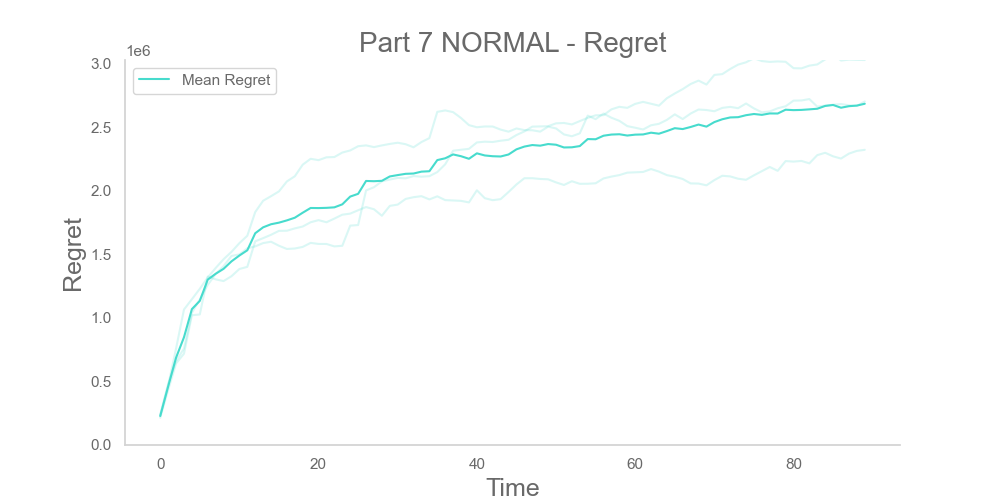
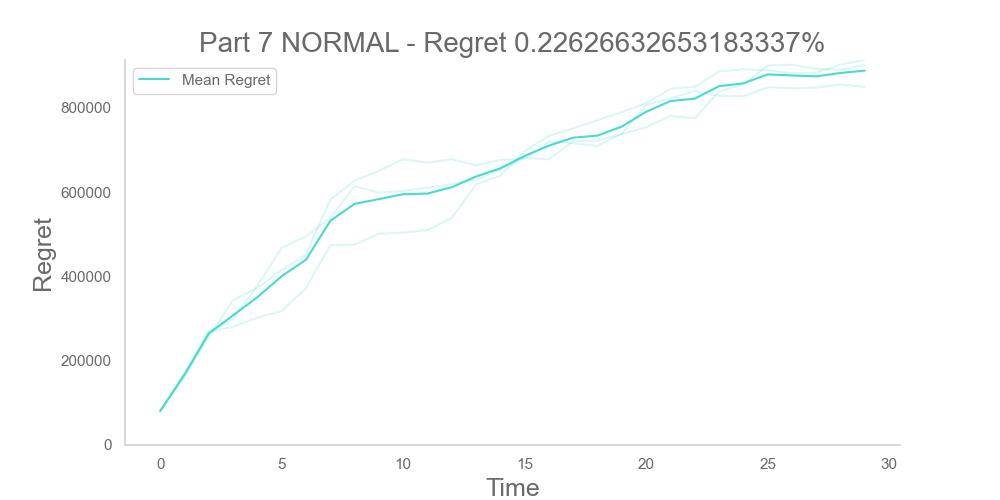
PART 7

diff --git a/project/TestingOneShot.py b/project/TestingOneShot.py
@@ -1,8 +1,8 @@
 import os
 import sys
 from datetime import datetime
-
 import numpy as np
+
 
 from project.dia_pckg.Config import *
 from project.part_2.Testing_part2 import test_part2
@@ -13,17 +13,17 @@ from project.part_6.Testing_Env_6 import test_part6
 from project.part_7_binomial.Testing_Env_7 import test_part7 as t7_binomial
 from project.part_7_normal.Testing_Env_7 import test_part7 as t7_normal
 
-n_experiment = 25
+n_experiment = 15
 np.random.seed(0)
 
 testing_setup = {
     'part2': False,
-    'part3': True,
+    'part3': False,
     'part4': False,
     'part5': False,
     'part6': False,
-    'part7_binomial': False,
-    'part7_normal': False
+    'part7_binomial': True,
+    'part7_normal': True
 
 }
 
@@ -41,7 +41,7 @@ def print_(text):
     print(text)
     with open(logs_path, "a") as file:
         file.write(text + '\n')
-    # block_print()
+    #block_print()
 
 
 def read_configs():
@@ -175,24 +175,19 @@ if __name__ == '__main__':
         # PART 7
         print_('PART 7 with BINOMIAL')
 
-        artificial_noise_ADVs = [5, 10, 20]
-        artificial_noise_CRs = [0.3, 0.5, 0.7]
+        artificial_noise_ADVs = [0.0, 0.02, 0.05,0.1]
 
         for artificial_noise_ADV in artificial_noise_ADVs:
-            for artificial_noise_CR in artificial_noise_CRs:
-                t7_binomial(n_experiments=n_experiment,
-                            demand_chart_path=demand_curves_chart_path,
-                            demand_chart_title=demand_curves_title,
-                            artificial_noise_ADV=artificial_noise_ADV,
-                            artificial_noise_CR=artificial_noise_CR,
-                            results_chart_path=f'{charts_path}/part7_'
-                                               f'artificial-noise-ADV{artificial_noise_ADV}_'
-                                               f'artificial-noise-CR{artificial_noise_CR}.png',
-                            results_chart_title=f'Part 7 - Regret ['
-                                                f'artificial-noise-ADV:{artificial_noise_ADV} '
-                                                f'artificial-noise-CR:{artificial_noise_CR}]')
-                print_(f'Sub-test completed.\n'
-                       f'Time: {datetime.now()}\n')
+            t7_binomial(n_experiments=n_experiment,
+                        demand_chart_path=demand_curves_chart_path,
+                        demand_chart_title=demand_curves_title,
+                        artificial_noise_ADV=artificial_noise_ADV,
+                        results_chart_path=f'{charts_path}/part7_'
+                                          f'ADV_noise{artificial_noise_ADV}_.png',
+                        results_chart_title=f'Part 7 - Regret ['
+                                           f'ADV_noise:{artificial_noise_ADV}] ')
+            print_(f'Sub-test completed.\n'
+                   f'Time: {datetime.now()}\n')
 
         print_(f'Test completed.\n'
                f'Time: {datetime.now()}\n')
@@ -203,22 +198,22 @@ if __name__ == '__main__':
             # PART 7
             print_('PART 7 with NORMAL')
 
-            artificial_noise_ADVs = [5, 10, 20]
-            artificial_noise_CRs = [0.3, 0.5, 0.7]
+            artificial_noise_ADVs = [0.0, 0.02, 0.05]
+            artificial_noise_CRs = [0.0, 0.02, 0.05]
 
             for artificial_noise_ADV in artificial_noise_ADVs:
                 for artificial_noise_CR in artificial_noise_CRs:
                     t7_normal(n_experiments=n_experiment,
-                              demand_chart_path=demand_curves_chart_path,
-                              demand_chart_title=demand_curves_title,
-                              artificial_noise_ADV=artificial_noise_ADV,
-                              artificial_noise_CR=artificial_noise_CR,
-                              results_chart_path=f'{charts_path}/part7_'
-                                                 f'artificial-noise-ADV{artificial_noise_ADV}_'
-                                                 f'artificial-noise-CR{artificial_noise_CR}.png',
-                              results_chart_title=f'Part 7 - Regret ['
-                                                  f'artificial-noise-ADV:{artificial_noise_ADV} '
-                                                  f'artificial-noise-CR:{artificial_noise_CR}]')
+                               demand_chart_path=demand_curves_chart_path,
+                               demand_chart_title=demand_curves_title,
+                               artificial_noise_ADV=artificial_noise_ADV,
+                               artificial_noise_CR=artificial_noise_CR,
+                               results_chart_path=f'{charts_path}/part7_'
+                                                  f'artificial-noise-ADV{artificial_noise_ADV}_'
+                                                  f'artificial-noise-CR{artificial_noise_CR}.png',
+                               results_chart_title=f'Part 7 - Regret ['
+                                                   f'ADV_noise:{artificial_noise_ADV} '
+                                                   f'CR_noise:{artificial_noise_CR}] ')
                     print_(f'Sub-test completed.\n'
                            f'Time: {datetime.now()}\n')
 
@@ -226,3 +221,4 @@ if __name__ == '__main__':
                    f'Time: {datetime.now()}\n')
             print_('-' * 60)
             # ---------------------------------------------------
+

diff --git a/project/part_7_binomial/Testing_Env_7.py b/project/part_7_binomial/Testing_Env_7.py
@@ -15,9 +15,9 @@ from project.part_7_binomial.FixedPriceBudgetAllocator import FixedPriceBudgetAl
 def test_part7(n_experiments=10,
                demand_chart_path='other_files/testing_part7_demandcurves.png',
                demand_chart_title='Part 7 - Demand Curves',
-               artificial_noise_ADV=0.01,
+               artificial_noise_ADV=0.02,
                results_chart_path='other_files/testing_part7_regrets.png',
-               results_chart_title='Part 7 BINOMIAL - Regret'):
+               results_chart_title='Part 7 BINOMIAL - Regret: '):
     # one product to sell
     product = Product(product_config=product_config)
 
@@ -74,10 +74,14 @@ def test_part7(n_experiments=10,
         regret_per_experiment.append(result)
         final_loss_per_experiment.append(sum(result))
 
+    daily_loss = np.mean(final_loss_per_experiment) / n_days
+    fix_price_budget_allocator = FixedPriceBudgetAllocator(artificial_noise_ADV=artificial_noise_ADV,multiclasshandler=mch)
+    optimal, opt_price = fix_price_budget_allocator.compute_optimal_reward(env_bid, mch)
+
     print('\n\nFINAL LOSS:', np.mean(final_loss_per_experiment))
     print('\n\nMEAN LOSS:', np.mean(final_loss_per_experiment) / n_days)
 
-    plt.title(results_chart_title, fontsize=20)
+    plt.title(results_chart_title + f"{daily_loss*100/optimal}%", fontsize=20)
 
     for regret in regret_per_experiment:
         plt.plot(np.cumsum(regret), alpha=0.2, c='C2')
@@ -117,6 +121,7 @@ def execute_experiment(args):
         daily_revenue = sum(reward_per_class.values())
 
         regret.append(optimal - daily_revenue)
+        print(f"regret%: {int((optimal - daily_revenue)*10000/optimal)/100.0}")
 
         fix_price_budget_allocator.update(allocation, click_per_class)
 

diff --git a/project/part_7_normal/Testing_Env_7.py b/project/part_7_normal/Testing_Env_7.py
@@ -19,7 +19,7 @@ def test_part7(n_experiments=10,
                artificial_noise_ADV=0.0,
                artificial_noise_CR=0.05,
                results_chart_path='other_files/testing_part7_regrets.png',
-               results_chart_title='Part 7 NORMAL - Regret'):
+               results_chart_title='Part 7 NORMAL - Regret '):
     # one product to sell
     product = Product(product_config=product_config)
 
@@ -87,7 +87,13 @@ def test_part7(n_experiments=10,
     # print('\n\nFINAL NOT FIXED LOSS:', np.mean(final_loss_per_experiment_notfixed))
     print('\n\nMEAN LOSS:', np.mean(final_loss_per_experiment) / n_days)
 
-    plt.title(results_chart_title, fontsize=20)
+    daily_loss = np.mean(final_loss_per_experiment) / n_days
+    fix_price_budget_allocator = FixedPriceBudgetAllocator(artificial_noise_ADV=artificial_noise_ADV,
+                                                           artificial_noise_CR=artificial_noise_CR,
+                                                           multiclasshandler=mch)
+    optimal, opt_price = fix_price_budget_allocator.compute_optimal_reward(env_bid, mch)
+
+    plt.title(results_chart_title + f"{daily_loss*100/optimal}%", fontsize=20)
 
     for regret in regret_per_experiment:
         plt.plot(np.cumsum(regret), alpha=0.2, c='C2')

diff --git a/project/dia_pckg/Config.py b/project/dia_pckg/Config.py
@@ -39,14 +39,14 @@ demand_path = 'demand_curves'
 # PART 3 CONFIG
 min_lens = [5]
 z_score = 2.58
-phase_lens = [30, 30, 30]  # n_days // n_abrupts_phases
+phase_lens = [60, 0, 0]#n_days // n_abrupts_phases
 n_abrupts_phases = len(phase_lens)
 n_days = sum(phase_lens)
 
-multiple_len_window = [round(n_days / 6)]  # , round(n_days/3), round(2*n_days/3)]
+multiple_len_window = [round(n_days/6)]#, round(n_days/3), round(2*n_days/3)]
 
 # Since n_abrupts_phases is odd and n_days could be even we add 1 to obtain equal phases
-# phase_len = phase_len + 1 if n_days % 2 == 0 else phase_len
+#phase_len = phase_len + 1 if n_days % 2 == 0 else phase_len
 
 
 n_subcamp = 3
@@ -54,5 +54,6 @@ n_subcamp = 3
 max_bid = 1
 n_arms_advertising = 21
 n_arms_pricing = 21
+
 
 noise_std = 0.05
